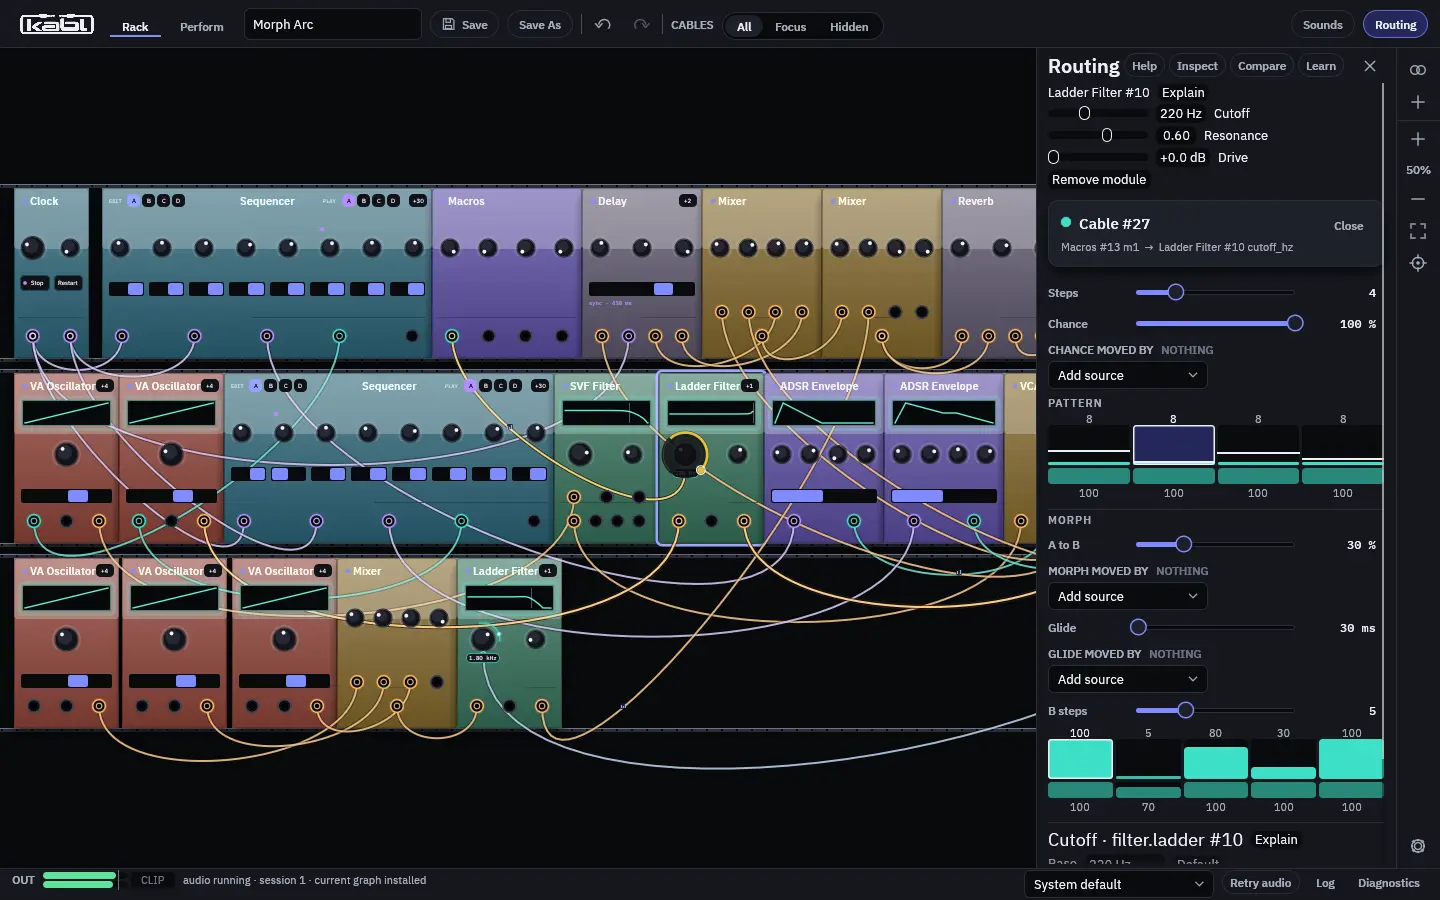
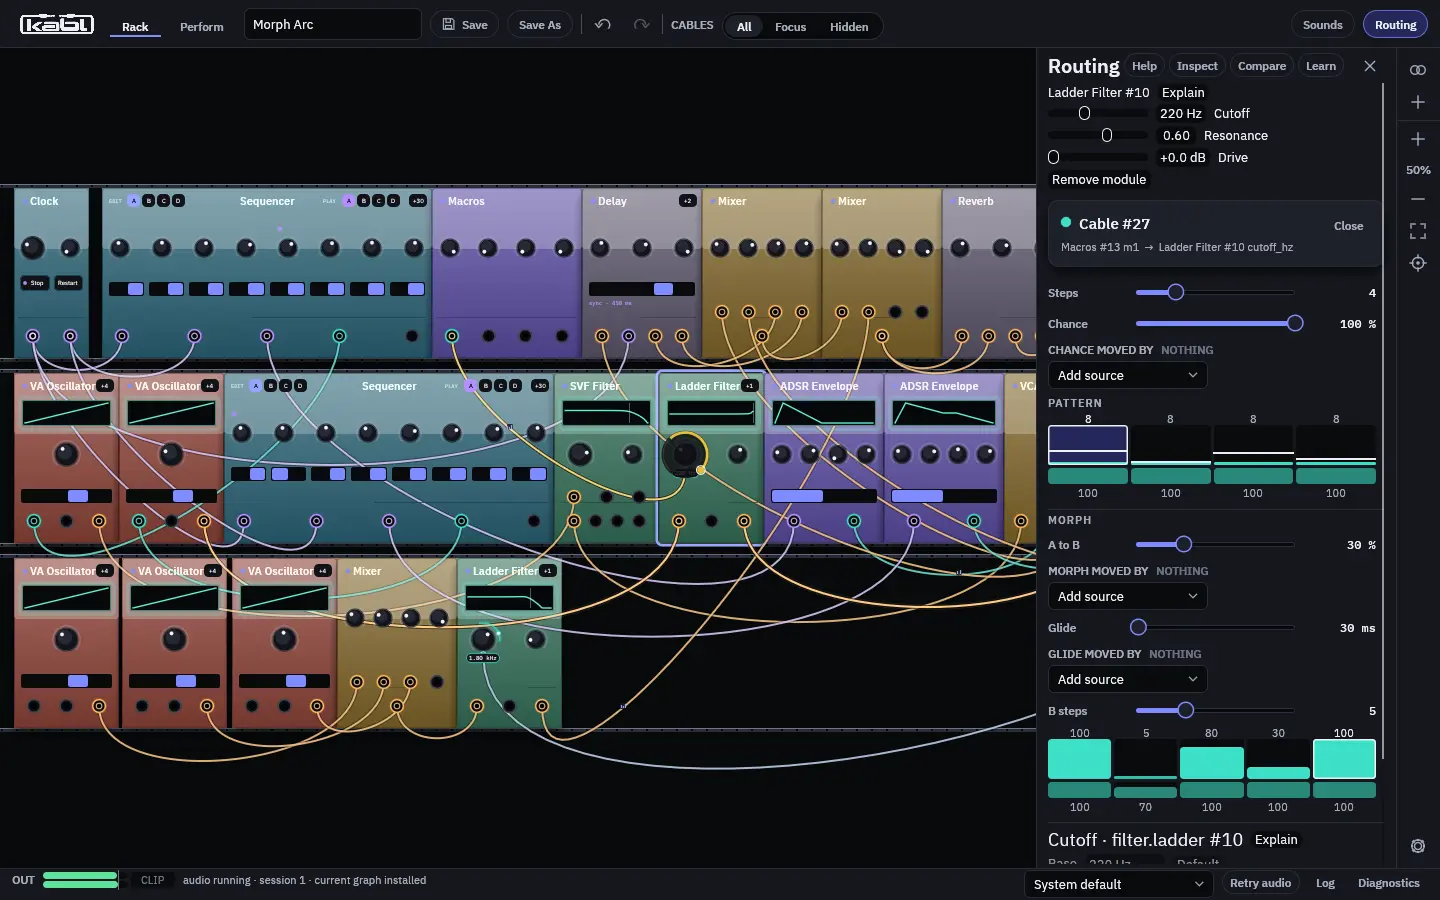
Pattern editor: fit step grids inside the drawer, test at the maximum step count, re-taken captures
Claude-Session: https://claude.ai/code/session_017R9ahpQaepARMaKEAMpi3W

diff --git a/crates/ui/tests/functional_cables.rs b/crates/ui/tests/functional_cables.rs
@@ -14,10 +14,15 @@ struct H {
     events: Vec<Event>,
     t: f64,
     pointer: Pos2,
+    size: egui::Vec2,
 }
 
 impl H {
     fn new() -> Self {
+        Self::sized(egui::vec2(1440.0, 900.0))
+    }
+
+    fn sized(size: egui::Vec2) -> Self {
         let dir = std::path::Path::new(env!("CARGO_MANIFEST_DIR")).join("../../patches/reference");
         let mut h = H {
             ctx: egui::Context::default(),
@@ -26,6 +31,7 @@ impl H {
             events: Vec::new(),
             t: 0.0,
             pointer: Pos2::ZERO,
+            size,
         };
         h.frame();
         h.frame();
@@ -33,7 +39,7 @@ impl H {
     }
 
     fn frame(&mut self) {
-        let size = egui::vec2(1440.0, 900.0);
+        let size = self.size;
         let raw = RawInput {
             screen_rect: Some(Rect::from_min_size(Pos2::ZERO, size)),
             events: std::mem::take(&mut self.events),
@@ -310,4 +316,47 @@ fn one_step_undoes_by_itself() {
     t.editor.undo();
     assert_eq!(t.cable_param(route, "s1"), None);
     assert!(t.cable_param(route, "length").is_some_and(|n| n >= 4.0));
+}
+
+#[test]
+fn the_step_grids_fit_the_drawer_at_the_maximum_step_count() {
+    for size in [egui::vec2(1440.0, 900.0), egui::vec2(1180.0, 680.0)] {
+        let mut t = H::sized(size);
+        t.click(&format!("knob:{ENV}.attack_ms"));
+        let route = *t
+            .ui
+            .hits
+            .keys()
+            .find_map(|k| k.strip_prefix("pattern:"))
+            .map(|s| s.parse::<CableId>().unwrap())
+            .iter()
+            .next()
+            .expect("a route row has a Pattern button");
+        t.click(&format!("pattern:{route}"));
+        for param in ["length", "b.length"] {
+            t.editor.set_param_gesture(
+                ParamTarget::Cable {
+                    id: route,
+                    param: param.into(),
+                },
+                kabl_cables::MAX_STEPS as f32,
+                true,
+            );
+        }
+        t.frame();
+        t.frame();
+        let edge = t.ui.hits[&format!("fn-prob:{route}")].right();
+        for tag in ["", "-b"] {
+            for k in [0, kabl_cables::MAX_STEPS - 1] {
+                for lane in ["level", "chance"] {
+                    let r = t.ui.hits[&format!("fn-{lane}{tag}:{route}:{k}")];
+                    assert!(
+                        r.right() <= edge + 0.5,
+                        "{size:?} {lane}{tag} step {k} ends at {} past the drawer edge {edge}",
+                        r.right()
+                    );
+                }
+            }
+        }
+    }
 }

diff --git a/docs/pattern-editor/scripts/host.py b/docs/pattern-editor/scripts/host.py
@@ -80,9 +80,10 @@ try:
         def tool(*a):
             sp.run(a, env=env, stdout=log, stderr=log)
         time.sleep(14)
-        tool('wmctrl', '-c', 'About REAPER')
-        tool('wmctrl', '-c', 'REAPER New Version')
-        time.sleep(1)
+        for _ in range(8):  # the update notice can arrive late: keep closing it
+            tool('wmctrl', '-c', 'About REAPER')
+            tool('wmctrl', '-c', 'REAPER New Version')
+            time.sleep(1.5)
         # Select the ladder filter's cutoff, then open the pattern of the route into it.
         for x_, y_ in ((748, 541), (877, 551)):
             tool('xdotool', 'mousemove', str(x_), str(y_))

diff --git a/crates/ui/src/pattern.rs b/crates/ui/src/pattern.rs
@@ -68,7 +68,11 @@ fn step_grid(ui: &mut Ui, st: &Style, ui_state: &mut UiState, l: &Lane) -> Vec<E
     let n = l.levels.len();
     let per_row = if n > 8 { n.div_ceil(2) } else { n };
     let gap = st.sp(1) * 0.75;
-    let w = ui.available_width();
+    // The drawer clips at its scroll area: never run past it, whatever the nominal width.
+    let w = ui
+        .available_width()
+        .min(ui.clip_rect().right() - ui.cursor().left())
+        - ui.spacing().item_spacing.x;
     let cw = (w - gap * (per_row as f32 - 1.0)) / per_row as f32;
     let mut edits = Vec::new();
     for row in 0..n.div_ceil(per_row) {
